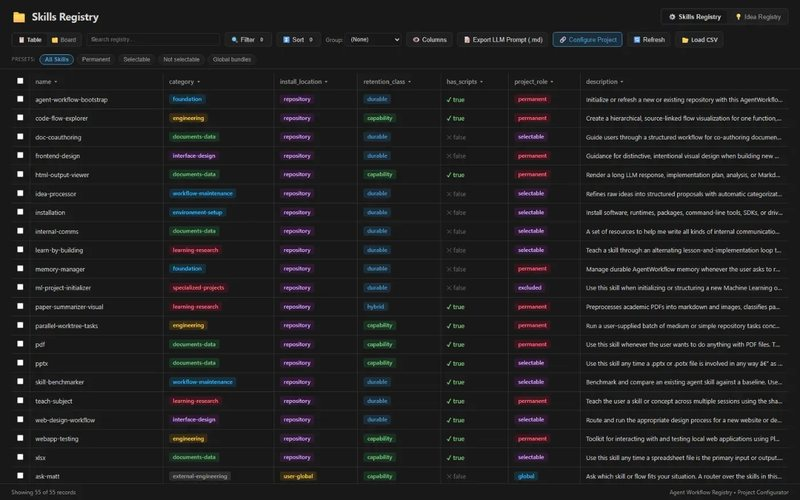
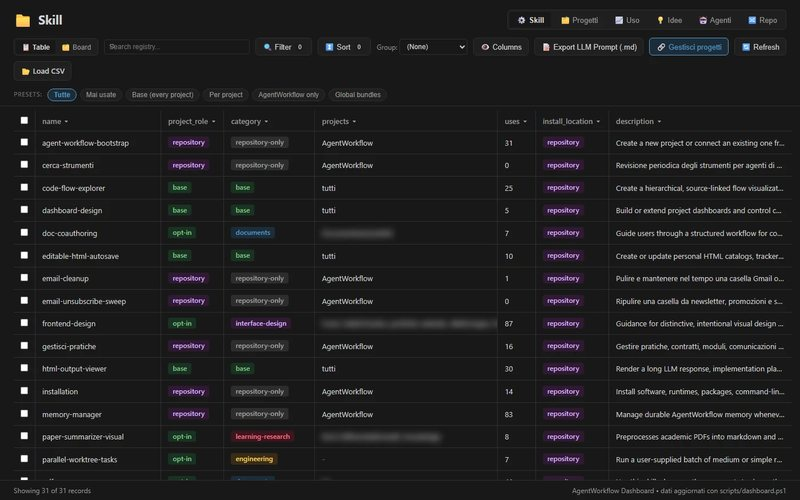
Agent Workflow: new summary and thumbnail, refresh Voice Expense Tracker thumbnail

diff --git a/README.md b/README.md
@@ -22,9 +22,9 @@ Tools I built to take repeated work off my hands, most of them around coding age
 <table>
   <tr>
     <td width="50%" valign="top">
-      <a href="https://ettoremodina-webportfolio.netlify.app/projects/agent-workflow"><img src="assets/projects/agent-workflow.jpg" width="100%" alt="The skill registry and project configurator of Agent Workflow"></a>
+      <a href="https://ettoremodina-webportfolio.netlify.app/projects/agent-workflow"><img src="assets/projects/agent-workflow.jpg" width="100%" alt="The skill registry in the Agent Workflow dashboard"></a>
       <h3>Agent Workflow</h3>
-      Shared instructions, skills and project memory for the coding agents I use across my projects, so a procedure set up once is available in every repository.
+      The control centre for my coding agents: skills, subagents and memory shared across projects, and a dashboard that follows the Git state of all my repositories.
       <br><br>
       <a href="https://ettoremodina-webportfolio.netlify.app/projects/agent-workflow"><b>Write-up</b></a>
     </td>
